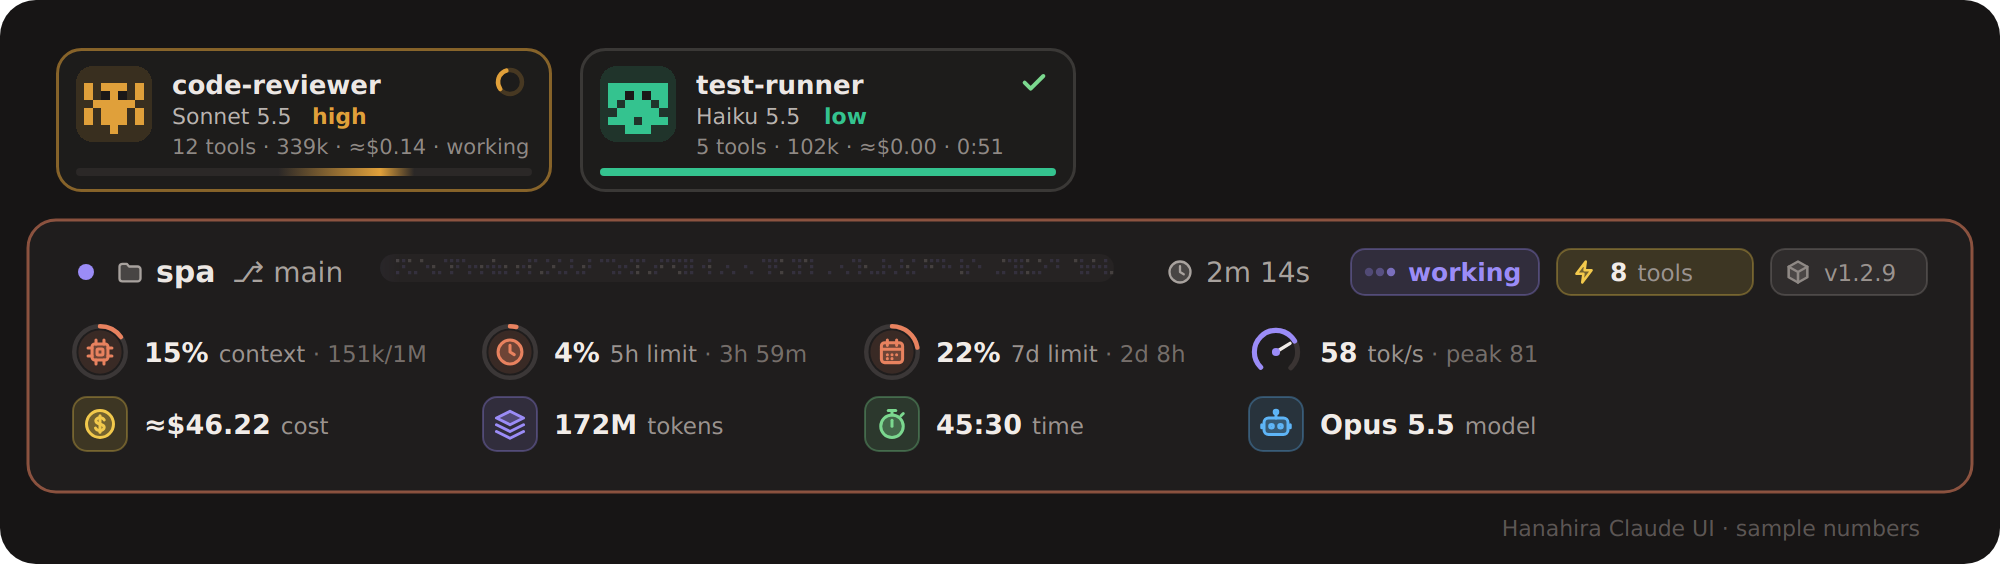
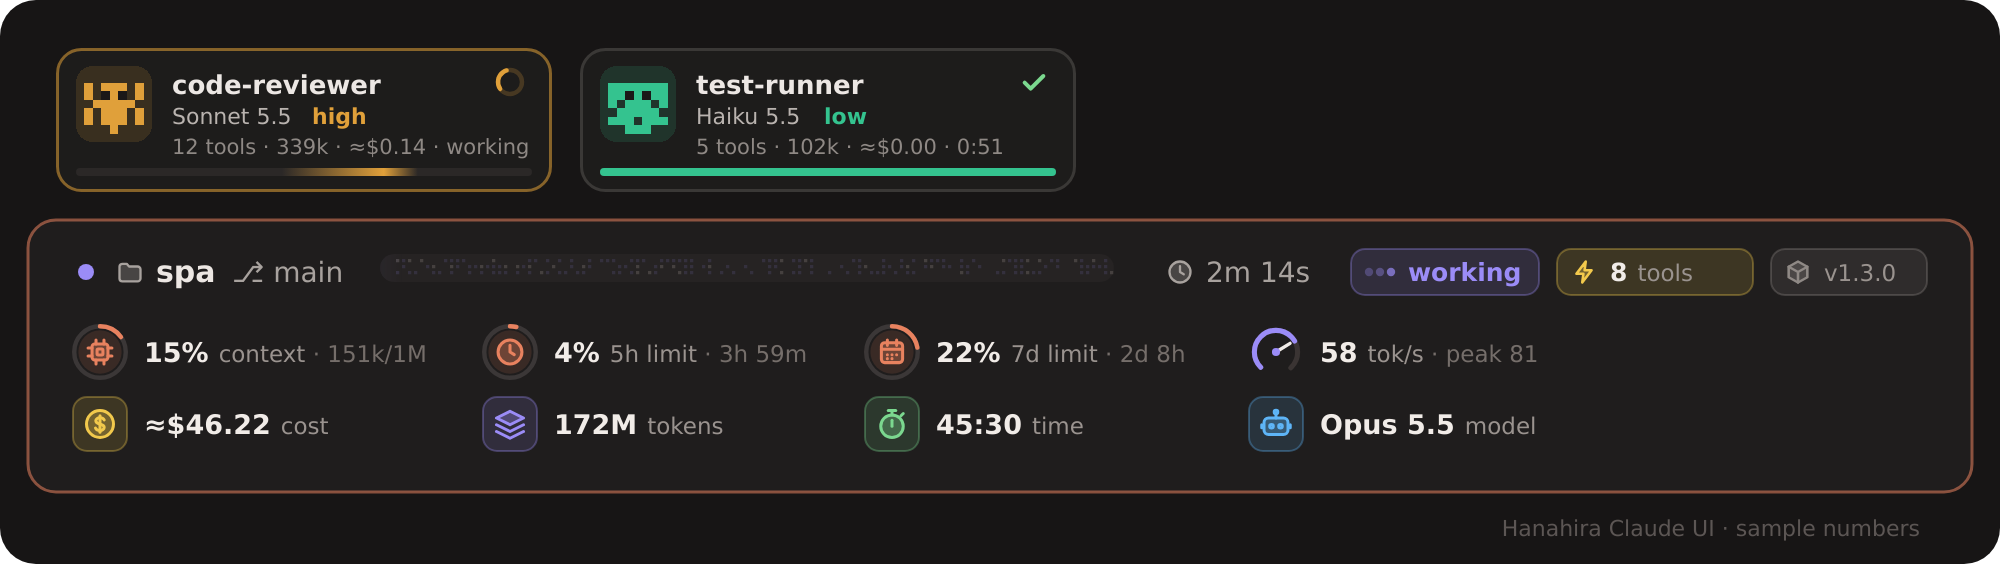
v1.3.0: the band's bar fills its line, motion back to drawn pictures
Version bump with the work since 1.2.9. The band's spinner and bar are
drawn as SVG again instead of Client modules (Text takes no `mono`
prop, so those modules failed on Desktop); a `Client` that fails now
says why in the log. The loading bar takes whatever room its line
leaves as the surface lays it out, instead of a width estimated from
bodyColumns, which undercounts Desktop's row and dropped the bar. The
bar's glow starts where its loop has reached, so a surface that does
not play SMIL still shows it. preview.svg and preview.png are
regenerated.

diff --git a/hooks/register.tsx b/hooks/register.tsx
@@ -599,11 +599,9 @@ export const register: Register = on => {
 
     const table = $.ui.resolve(e)
     const Svg = 'Svg' in table ? table.Svg : null
-    // Where the surface takes a `Client`, the band's motion while a turn runs (the spinner by
-    // the title, the bar's light) is turned by the surface itself (spinner.tsx, shimmer.tsx),
-    // so no redraw restarts it; the pictures beside them stand still.
+    // Where the surface takes a `Client`, the bar under each running agent card is moved by
+    // the surface itself (shimmer.tsx), so no redraw restarts it.
     const Client = 'Client' in table ? table.Client : null
-    const surfaceMoves = Client !== null && e.props.isWorking
 
 
     // Overall figures, as five cards: spend, tokens, time spent running, model, and UI version.
@@ -656,7 +654,7 @@ export const register: Register = on => {
     const chips = [
       { key: 'status', alt: e.props.isWorking ? 'Working' : 'Idle', art: chipSvg({
         ...(e.props.isWorking
-          ? { color: THEME.accent, label: 'working', dots: true, still: surfaceMoves, now: loopAt }
+          ? { color: THEME.accent, label: 'working', dots: true, now: loopAt }
           : { color: '#a8a29e', label: 'idle', icon: 'pause' as IconName }),
         strong: true,
         minWidth: Math.max(statusChip(true).natural, statusChip(false).natural),
@@ -695,9 +693,6 @@ export const register: Register = on => {
     // On a line of its own and still too wide: the version chip, the least needed, gives way.
     const versionChip = chips.find(c => c.key === 'version')
     const showVersion = !(THEME.compact && stacked && versionChip && rightPx > topRoomPx)
-    // The loading bar: what its line leaves, up to THEME.barPx; under a short bar's worth, none.
-    const barRoom = Math.min(THEME.barPx, topRoomPx - leftPx - (stacked ? 0 : rightPx) - gapPx)
-    const barPx = barRoom >= 120 ? Math.floor(barRoom) : 0
 
     // The agent strip: who is shown, and who bounces in or flashes. A card keeps its "just
     // appeared" look for a moment, so a redraw in that moment does not cut the motion short.
@@ -930,7 +925,7 @@ export const register: Register = on => {
                         width={Math.floor(CARD_W / 8)}
                       />
                     ) : (
-                      <Text mono wrap="truncate-end" color={a.status === 'done' ? accentFor(a.effort, a.model) : '#3a3836'}>
+                      <Text wrap="truncate-end" color={a.status === 'done' ? accentFor(a.effort, a.model) : '#3a3836'}>
                         {'━'.repeat(Math.floor(CARD_W / 8))}
                       </Text>
                     )}
@@ -955,11 +950,9 @@ export const register: Register = on => {
         paddingX={1}
         {...(THEME.frame ? { borderStyle: 'round', borderColor: THEME.warm } : {})}
       >
-        <Box flexDirection={stacked ? 'column' : 'row'} columnGap={1} alignItems={stacked ? 'flex-start' : 'center'}>
+        <Box flexDirection={stacked ? 'column' : 'row'} columnGap={1} alignItems={stacked ? 'stretch' : 'center'}>
           <Box gap={1} alignItems="center" flexGrow={1} flexShrink={1} minWidth={0}>
-            {surfaceMoves ? (
-              <Client key="band-spinner" module="./spinner.tsx" props={{ color: THEME.accent, bg: '', label: '' }} />
-            ) : Svg ? (
+            {Svg ? (
               <Svg source={dotSvg(THEME.accent, e.props.isWorking, 14, loopAt)} alt="" width={14} height={14} />
             ) : (
               <Text color={THEME.accent}>●</Text>
@@ -972,25 +965,19 @@ export const register: Register = on => {
                 <Text dimColor>{branch}</Text>
               </Box>
             ) : null}
-            {surfaceMoves && barPx > 0 ? (
-              // A cell of the bar is about 8px: the same room the drawn bar would take.
-              <Client
-                key="band-bar"
-                module="./shimmer.tsx"
-                props={{ cells: Math.floor(barPx / 8), color: THEME.accent, track: '#3a3433' }}
-                width={Math.floor(barPx / 8)}
-              />
-            ) : Svg && barPx > 0 ? (
-              // If the estimate is still too wide, the bar gives way (clipped), never the chips.
-              <Box flexShrink={1} minWidth={0} overflow="hidden">
+            {Svg ? (
+              // The bar takes what its line leaves, as the surface lays it out (from no width,
+              // growing): bodyColumns * 8 undercounts Desktop's row, and a bar sized from it
+              // came out under the cut-off and was dropped. Drawn THEME.barPx wide, clipped to fit.
+              <Box width={0} flexGrow={1} flexShrink={1} minWidth={0} overflow="hidden">
               <Svg
-                source={loadingSvg(barPx, THEME.barHeight, THEME.accent, {
+                source={loadingSvg(THEME.barPx, THEME.barHeight, THEME.accent, {
                   live: e.props.isWorking,
                   padBottom: THEME.barGap,
                   now: loopAt,
                 })}
                 alt={e.props.isWorking ? 'Working' : 'Idle'}
-                width={barPx}
+                width={THEME.barPx}
                 height={THEME.barHeight + THEME.barGap}
               />
               </Box>
@@ -1245,6 +1232,12 @@ export const register: Register = on => {
         </Box>
       </Box>
     )
+  })
+
+  // A `Client` that failed on a surface says why in the log; the engine draws the site again.
+  on('ui.fault', ($, e, next) => {
+    $.ui.log(`${e.surface} ${e.component} ${e.module} [${e.element}] ${e.phase}: ${e.reason}`)
+    return next(e)
   })
 
   // The end-of-turn line: a pill instead of a dim word.

diff --git a/hooks/chat.ts b/hooks/chat.ts
@@ -451,11 +451,14 @@ export const loadingSvg = (
   }
 
   const gw = Math.round(w * 0.4)
+  // The glow starts where its loop has reached by `now`, not off the left edge: a surface that
+  // does not play the SMIL still shows it, stepping on with each redraw.
+  const gx = Math.round(-gw + ((((opts.now ?? 0) % 1900) + 1900) % 1900 / 1900) * (w + gw))
   const sweep = opts.live
     ? `<defs>` +
       `<linearGradient id="${uid}g" x1="0" x2="1" y1="0" y2="0"><stop offset="0" stop-color="#fff" stop-opacity="0"/><stop offset="0.5" stop-color="#fff" stop-opacity="1"/><stop offset="1" stop-color="#fff" stop-opacity="0"/></linearGradient>` +
       `<mask id="${uid}m" maskUnits="userSpaceOnUse" x="0" y="0" width="${w}" height="${h}">` +
-      `<rect x="${-gw}" y="0" width="${gw}" height="${h}" fill="url(#${uid}g)"><animate attributeName="x" from="${-gw}" to="${w}" dur="1.9s" begin="${phaseBegin(opts.now ?? 0, 1900)}" repeatCount="indefinite"/></rect>` +
+      `<rect x="${gx}" y="0" width="${gw}" height="${h}" fill="url(#${uid}g)"><animate attributeName="x" from="${-gw}" to="${w}" dur="1.9s" begin="${phaseBegin(opts.now ?? 0, 1900)}" repeatCount="indefinite"/></rect>` +
       `</mask></defs>` +
       `<g mask="url(#${uid}m)">` +
       `<rect width="${w}" height="${h}" rx="${h / 2}" fill="${color}" fill-opacity="0.2"/>` +

diff --git a/hooks/shimmer.tsx b/hooks/shimmer.tsx
@@ -35,11 +35,11 @@ const Shimmer: ClientModule<ShimmerProps, ShimmerState> = (props, s) => {
     s.state.bar.cells = cells
   }
   const run = shimmerRuns(cells, s.state?.at ?? -SHIMMER_LIGHT)
-  // One line of the monospaced face, cut rather than wrapped: in a proportional face `━` runs
-  // wider than a cell, and the bar would spill onto a second line.
+  // One line, cut rather than wrapped: in a proportional face `━` runs wider than a cell, and
+  // the bar would spill onto a second line. (Text takes no `mono` prop.)
   return (
     <Box flexDirection="row" flexWrap="nowrap" overflow="hidden">
-      <Text mono wrap="truncate-end">
+      <Text wrap="truncate-end">
         <Text color={props.track}>{'━'.repeat(run.before)}</Text>
         <Text color={props.color}>{'━'.repeat(run.lit)}</Text>
         <Text color={props.track}>{'━'.repeat(run.after)}</Text>

diff --git a/hooks/spinner.tsx b/hooks/spinner.tsx
@@ -26,7 +26,7 @@ const Spinner: ClientModule<SpinnerProps, { frame: number }> = (props, s) => {
   }
   const glyph = SPINNER_FRAMES[s.state?.frame ?? 0]
   return (
-    <Text color={props.color} backgroundColor={props.bg || undefined} bold mono>
+    <Text color={props.color} backgroundColor={props.bg || undefined} bold>
       {props.label ? ` ${glyph} ${props.label} ` : glyph}
     </Text>
   )

diff --git a/hooks/version.ts b/hooks/version.ts
@@ -1,3 +1,3 @@
 // Mirrors "version" in .claude-plugin/plugin.json. A hooks module may only import code
 // files, so it cannot read the JSON; version.test.ts keeps the two equal.
-export const VERSION = '1.2.9'
+export const VERSION = '1.3.0'
